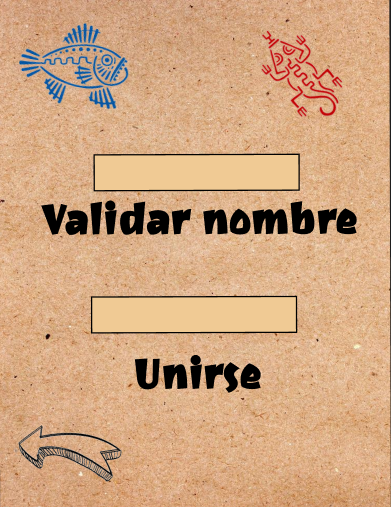
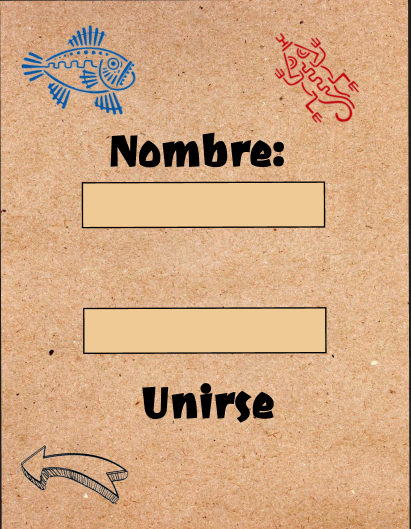
cambios en diseño
si

diff --git a/patolliSocketClient/src/main/java/GUIs/vistaTablero.java b/patolliSocketClient/src/main/java/GUIs/vistaTablero.java
@@ -29,6 +29,11 @@ public class vistaTablero extends JFrame {
         tablero.setBounds(0, 0, Tablero.getIcon().getIconWidth(), Tablero.getIcon().getIconHeight());
         layeredPane.add(tablero, Integer.valueOf(1)); // Capa superior
 
+        redimensionarCañas(); // Redimensiona las imágenes de las cañas
+
+        // Posiciona las cañas en la capa intermedia
+        posicionarCañas(layeredPane);
+
         // Agrega los botones al layeredPane en una capa intermedia
         Tirar.setBounds(340, 670, 170, 60);
         layeredPane.add(Tirar, Integer.valueOf(2));
@@ -39,13 +44,57 @@ public class vistaTablero extends JFrame {
         // Agrega el layeredPane al JFrame
         setContentPane(layeredPane);
         pack();
+        revalidate();
         repaint(); // Re-dibuja para asegurarse que el tablero se muestre correctamente
+    }
+
+    private void redimensionarCañas() {
+        // Tamaño deseado para las cañas
+        int ancho = 70; // Cambia este valor para ajustar el ancho
+        int alto = 35;  // Cambia este valor para ajustar el alto
+
+        // Redimensionar cada caña
+        JLabel[] cañas = {cana1, cana2, cana3, cana4, cana5};
+        for (JLabel caña : cañas) {
+            // Cargar la imagen original del JLabel
+            ImageIcon iconoOriginal = (ImageIcon) caña.getIcon();
+            Image imagenRedimensionada = iconoOriginal.getImage().getScaledInstance(ancho, alto, Image.SCALE_SMOOTH);
+
+            // Establecer la nueva imagen escalada en el JLabel
+            caña.setIcon(new ImageIcon(imagenRedimensionada));
+        }
+    }
+
+    /**
+     * Método para posicionar las cañas en el tablero.
+     */
+    private void posicionarCañas(JLayeredPane layeredPane) {
+        // Coordenadas para las cañas, basadas en la imagen
+        int[][] posiciones = {
+            {820, 210}, // caña1
+            {820, 250}, // caña2
+            {820, 290}, // caña3
+            {820, 330}, // caña4
+            {820, 370} // caña5
+        };
+
+        JLabel[] cañas = {cana1, cana2, cana3, cana4, cana5};
+
+        for (int i = 0; i < cañas.length; i++) {
+            cañas[i].setBounds(posiciones[i][0], posiciones[i][1], 110, 50); // Ajustar tamaño y posición
+            layeredPane.add(cañas[i], Integer.valueOf(2)); // Añadir a la capa intermedia
+        }
     }
 
     @SuppressWarnings("unchecked")
     // <editor-fold defaultstate="collapsed" desc="Generated Code">//GEN-BEGIN:initComponents
     private void initComponents() {
 
+        cana3 = new javax.swing.JLabel();
+        cana1 = new javax.swing.JLabel();
+        cana4 = new javax.swing.JLabel();
+        cana5 = new javax.swing.JLabel();
+        cana2 = new javax.swing.JLabel();
         Nombre1 = new javax.swing.JLabel();
         Dinero1 = new javax.swing.JLabel();
         Nombre2 = new javax.swing.JLabel();
@@ -58,9 +107,25 @@ public class vistaTablero extends JFrame {
         Tirar = new javax.swing.JButton();
         btnVolverInicio = new javax.swing.JButton();
         Tablero = new javax.swing.JLabel();
+        jPanel1 = new javax.swing.JPanel();
 
         setDefaultCloseOperation(javax.swing.WindowConstants.EXIT_ON_CLOSE);
         getContentPane().setLayout(new org.netbeans.lib.awtextra.AbsoluteLayout());
+
+        cana3.setIcon(new javax.swing.ImageIcon(getClass().getResource("/img/cañaVacia.png"))); // NOI18N
+        getContentPane().add(cana3, new org.netbeans.lib.awtextra.AbsoluteConstraints(820, 320, 110, 50));
+
+        cana1.setIcon(new javax.swing.ImageIcon(getClass().getResource("/img/cañaVacia.png"))); // NOI18N
+        getContentPane().add(cana1, new org.netbeans.lib.awtextra.AbsoluteConstraints(820, 200, 110, 50));
+
+        cana4.setIcon(new javax.swing.ImageIcon(getClass().getResource("/img/cañaVacia.png"))); // NOI18N
+        getContentPane().add(cana4, new org.netbeans.lib.awtextra.AbsoluteConstraints(820, 410, 110, 50));
+
+        cana5.setIcon(new javax.swing.ImageIcon(getClass().getResource("/img/cañaVacia.png"))); // NOI18N
+        getContentPane().add(cana5, new org.netbeans.lib.awtextra.AbsoluteConstraints(820, 480, 110, 50));
+
+        cana2.setIcon(new javax.swing.ImageIcon(getClass().getResource("/img/cañaVacia.png"))); // NOI18N
+        getContentPane().add(cana2, new org.netbeans.lib.awtextra.AbsoluteConstraints(820, 270, 110, 50));
 
         Nombre1.setFont(new java.awt.Font("Segoe UI", 1, 36)); // NOI18N
         Nombre1.setForeground(new java.awt.Color(0, 0, 0));
@@ -118,8 +183,9 @@ public class vistaTablero extends JFrame {
         });
         getContentPane().add(btnVolverInicio, new org.netbeans.lib.awtextra.AbsoluteConstraints(10, 670, 100, 60));
 
-        Tablero.setIcon(new javax.swing.ImageIcon(getClass().getResource("/img/Tablero.png"))); // NOI18N
+        Tablero.setIcon(new javax.swing.ImageIcon(getClass().getResource("/img/tablero2.png"))); // NOI18N
         getContentPane().add(Tablero, new org.netbeans.lib.awtextra.AbsoluteConstraints(0, 0, -1, -1));
+        getContentPane().add(jPanel1, new org.netbeans.lib.awtextra.AbsoluteConstraints(830, 10, -1, -1));
 
         pack();
     }// </editor-fold>//GEN-END:initComponents
@@ -148,5 +214,11 @@ public class vistaTablero extends JFrame {
     private javax.swing.JButton Tirar;
     private javax.swing.JLabel Turno;
     private javax.swing.JButton btnVolverInicio;
+    private javax.swing.JLabel cana1;
+    private javax.swing.JLabel cana2;
+    private javax.swing.JLabel cana3;
+    private javax.swing.JLabel cana4;
+    private javax.swing.JLabel cana5;
+    private javax.swing.JPanel jPanel1;
     // End of variables declaration//GEN-END:variables
 }

diff --git a/patolliSocketClient/src/main/java/GUIs/vistaRegistro.java b/patolliSocketClient/src/main/java/GUIs/vistaRegistro.java
@@ -39,7 +39,6 @@ public class vistaRegistro extends javax.swing.JFrame implements Observer{
         txtPartida = new javax.swing.JTextField();
         jLabel1 = new javax.swing.JLabel();
         btnUnirse = new javax.swing.JButton();
-        btnValidar = new javax.swing.JButton();
         btnVolverInicio = new javax.swing.JButton();
 
         setDefaultCloseOperation(javax.swing.WindowConstants.EXIT_ON_CLOSE);
@@ -54,7 +53,7 @@ public class vistaRegistro extends javax.swing.JFrame implements Observer{
                 txtNombreActionPerformed(evt);
             }
         });
-        getContentPane().add(txtNombre, new org.netbeans.lib.awtextra.AbsoluteConstraints(100, 160, 190, 20));
+        getContentPane().add(txtNombre, new org.netbeans.lib.awtextra.AbsoluteConstraints(90, 190, 230, 30));
 
         txtPartida.setBackground(new java.awt.Color(240, 202, 148));
         txtPartida.setForeground(new java.awt.Color(0, 0, 0));
@@ -65,7 +64,7 @@ public class vistaRegistro extends javax.swing.JFrame implements Observer{
                 txtPartidaActionPerformed(evt);
             }
         });
-        getContentPane().add(txtPartida, new org.netbeans.lib.awtextra.AbsoluteConstraints(100, 300, 190, 30));
+        getContentPane().add(txtPartida, new org.netbeans.lib.awtextra.AbsoluteConstraints(90, 320, 230, 30));
 
         jLabel1.setIcon(new javax.swing.ImageIcon(getClass().getResource("/img/registro.png"))); // NOI18N
         getContentPane().add(jLabel1, new org.netbeans.lib.awtextra.AbsoluteConstraints(0, 0, -1, -1));
@@ -77,16 +76,7 @@ public class vistaRegistro extends javax.swing.JFrame implements Observer{
                 btnUnirseActionPerformed(evt);
             }
         });
-        getContentPane().add(btnUnirse, new org.netbeans.lib.awtextra.AbsoluteConstraints(120, 350, 150, 50));
-
-        btnValidar.setBorderPainted(false);
-        btnValidar.setContentAreaFilled(false);
-        btnValidar.addActionListener(new java.awt.event.ActionListener() {
-            public void actionPerformed(java.awt.event.ActionEvent evt) {
-                btnValidarActionPerformed(evt);
-            }
-        });
-        getContentPane().add(btnValidar, new org.netbeans.lib.awtextra.AbsoluteConstraints(30, 200, 330, 40));
+        getContentPane().add(btnUnirse, new org.netbeans.lib.awtextra.AbsoluteConstraints(130, 380, 150, 50));
 
         btnVolverInicio.setText("jButton1");
         btnVolverInicio.setBorderPainted(false);
@@ -114,14 +104,6 @@ public class vistaRegistro extends javax.swing.JFrame implements Observer{
         // TODO add your handling code here:
     }//GEN-LAST:event_txtNombreActionPerformed
 
-    private void btnValidarActionPerformed(java.awt.event.ActionEvent evt) {//GEN-FIRST:event_btnValidarActionPerformed
-        if (!txtNombre.getText().isEmpty()) {
-            JOptionPane.showMessageDialog(this, "Nombre Correcto", "Notificacion", JOptionPane.INFORMATION_MESSAGE);
-        } else {
-            JOptionPane.showMessageDialog(this, "Poner Datos Correctos", "Error", JOptionPane.WARNING_MESSAGE);
-        }
-    }//GEN-LAST:event_btnValidarActionPerformed
-
     private void btnVolverInicioActionPerformed(java.awt.event.ActionEvent evt) {//GEN-FIRST:event_btnVolverInicioActionPerformed
         vistaInicio inicio = new vistaInicio();
         inicio.setVisible(true);
@@ -131,7 +113,6 @@ public class vistaRegistro extends javax.swing.JFrame implements Observer{
 
     // Variables declaration - do not modify//GEN-BEGIN:variables
     private javax.swing.JButton btnUnirse;
-    private javax.swing.JButton btnValidar;
     private javax.swing.JButton btnVolverInicio;
     private javax.swing.JLabel jLabel1;
     private javax.swing.JTextField txtNombre;

diff --git a/patolliSocketClient/src/main/java/GUIs/vistaRegistro2.java b/patolliSocketClient/src/main/java/GUIs/vistaRegistro2.java
@@ -37,7 +37,6 @@ public class vistaRegistro2 extends javax.swing.JFrame {
         txtNombre = new javax.swing.JTextField();
         jLabel1 = new javax.swing.JLabel();
         btnSiguente = new javax.swing.JButton();
-        btnValidar = new javax.swing.JButton();
         btnVolverInicio = new javax.swing.JButton();
 
         setDefaultCloseOperation(javax.swing.WindowConstants.EXIT_ON_CLOSE);
@@ -52,7 +51,7 @@ public class vistaRegistro2 extends javax.swing.JFrame {
                 txtNombreActionPerformed(evt);
             }
         });
-        getContentPane().add(txtNombre, new org.netbeans.lib.awtextra.AbsoluteConstraints(90, 280, 260, 20));
+        getContentPane().add(txtNombre, new org.netbeans.lib.awtextra.AbsoluteConstraints(80, 250, 240, 30));
 
         jLabel1.setIcon(new javax.swing.ImageIcon(getClass().getResource("/img/registro2.png"))); // NOI18N
         getContentPane().add(jLabel1, new org.netbeans.lib.awtextra.AbsoluteConstraints(0, 0, -1, -1));
@@ -64,16 +63,7 @@ public class vistaRegistro2 extends javax.swing.JFrame {
                 btnSiguenteActionPerformed(evt);
             }
         });
-        getContentPane().add(btnSiguente, new org.netbeans.lib.awtextra.AbsoluteConstraints(310, 490, 130, 70));
-
-        btnValidar.setBorderPainted(false);
-        btnValidar.setContentAreaFilled(false);
-        btnValidar.addActionListener(new java.awt.event.ActionListener() {
-            public void actionPerformed(java.awt.event.ActionEvent evt) {
-                btnValidarActionPerformed(evt);
-            }
-        });
-        getContentPane().add(btnValidar, new org.netbeans.lib.awtextra.AbsoluteConstraints(30, 329, 400, 60));
+        getContentPane().add(btnSiguente, new org.netbeans.lib.awtextra.AbsoluteConstraints(280, 450, 120, 70));
 
         btnVolverInicio.setText("jButton1");
         btnVolverInicio.setBorderPainted(false);
@@ -83,7 +73,7 @@ public class vistaRegistro2 extends javax.swing.JFrame {
                 btnVolverInicioActionPerformed(evt);
             }
         });
-        getContentPane().add(btnVolverInicio, new org.netbeans.lib.awtextra.AbsoluteConstraints(20, 480, 130, 80));
+        getContentPane().add(btnVolverInicio, new org.netbeans.lib.awtextra.AbsoluteConstraints(20, 440, 110, 70));
 
         pack();
     }// </editor-fold>//GEN-END:initComponents
@@ -104,14 +94,6 @@ public class vistaRegistro2 extends javax.swing.JFrame {
         // TODO add your handling code here:
     }//GEN-LAST:event_txtNombreActionPerformed
 
-    private void btnValidarActionPerformed(java.awt.event.ActionEvent evt) {//GEN-FIRST:event_btnValidarActionPerformed
-        if (!txtNombre.getText().isEmpty()) {
-            JOptionPane.showMessageDialog(this, "Nombre Correcto", "Notificacion", JOptionPane.INFORMATION_MESSAGE);
-        } else {
-            JOptionPane.showMessageDialog(this, "Poner Datos Correctos", "Error", JOptionPane.WARNING_MESSAGE);
-        }
-    }//GEN-LAST:event_btnValidarActionPerformed
-
     private void btnVolverInicioActionPerformed(java.awt.event.ActionEvent evt) {//GEN-FIRST:event_btnVolverInicioActionPerformed
         vistaInicio inicio = new vistaInicio();
         inicio.setVisible(true);
@@ -121,7 +103,6 @@ public class vistaRegistro2 extends javax.swing.JFrame {
 
     // Variables declaration - do not modify//GEN-BEGIN:variables
     private javax.swing.JButton btnSiguente;
-    private javax.swing.JButton btnValidar;
     private javax.swing.JButton btnVolverInicio;
     private javax.swing.JLabel jLabel1;
     private javax.swing.JTextField txtNombre;

diff --git a/patolliSocketClient/src/main/java/logica/TableroBuilder.java b/patolliSocketClient/src/main/java/logica/TableroBuilder.java
@@ -5,10 +5,9 @@
 package logica;
 
 import java.awt.Color;
+import java.awt.Dimension;
 import java.awt.GridLayout;
 import java.util.List;
-import java.util.Map;
-import java.util.Set;
 import javax.swing.JLabel;
 import javax.swing.JPanel;
 import javax.swing.border.LineBorder;
@@ -47,8 +46,15 @@ public class TableroBuilder {
     }
 
     private void configurarTamano() {
-        tablero.setLayout(new GridLayout(filas, columnas, 5, 5));
-        tablero.setPreferredSize(tablero.getSize());
+        int casillaAncho = 100;  // Cambiar este valor si es necesario
+        int casillaAlto = 100;   // Cambiar este valor si es necesario
+
+        int panelAncho = columnas * casillaAncho;
+        int panelAlto = filas * casillaAlto;
+        tablero.setPreferredSize(new Dimension(panelAncho, panelAlto));
+        
+        // Utiliza GridLayout con espaciado adecuado
+        tablero.setLayout(new GridLayout(filas, columnas, 0, 0)); // 0px de espaciado
     }
 
     public void construirTablero() {
@@ -66,6 +72,7 @@ public class TableroBuilder {
         label.setBorder(new LineBorder(Color.BLACK, 1));
         label.setOpaque(true);
         label.setBackground(Color.WHITE);
+        label.setPreferredSize(new Dimension(100, 100));
         return label;
     }
 

diff --git a/patolliSocketClient/src/main/java/GUIs/vistaCrearJuego.java b/patolliSocketClient/src/main/java/GUIs/vistaCrearJuego.java
@@ -213,14 +213,14 @@ public class vistaCrearJuego extends javax.swing.JFrame {
 
     private void btnSemillasMenosActionPerformed(java.awt.event.ActionEvent evt) {//GEN-FIRST:event_btnSemillasMenosActionPerformed
         if (minSemillas != 100) {
-            minSemillas=minSemillas-100;
+            minSemillas=minSemillas-10;
             semillas.setText("(" + minSemillas + "/" + SemillasMax + ")");
         }
     }//GEN-LAST:event_btnSemillasMenosActionPerformed
 
     private void btnSemillasMasActionPerformed(java.awt.event.ActionEvent evt) {//GEN-FIRST:event_btnSemillasMasActionPerformed
         if (minSemillas < 900) {
-            minSemillas=100+minSemillas;
+            minSemillas=10+minSemillas;
             semillas.setText("(" + minSemillas + "/" + SemillasMax + ")");
         }
     }//GEN-LAST:event_btnSemillasMasActionPerformed

diff --git a/patolliSocketClient/src/main/java/Main/NewMain.java b/patolliSocketClient/src/main/java/Main/NewMain.java
@@ -1,0 +1,24 @@
+/*
+ * Click nbfs://nbhost/SystemFileSystem/Templates/Licenses/license-default.txt to change this license
+ * Click nbfs://nbhost/SystemFileSystem/Templates/Classes/Main.java to edit this template
+ */
+package Main;
+
+import GUIs.vistaTablero;
+
+/**
+ *
+ * @author Gabriel
+ */
+public class NewMain {
+
+    /**
+     * @param args the command line arguments
+     */
+    public static void main(String[] args) throws Exception {
+        vistaTablero t = new vistaTablero(2);
+        t.setVisible(true);
+
+    }
+    
+}
